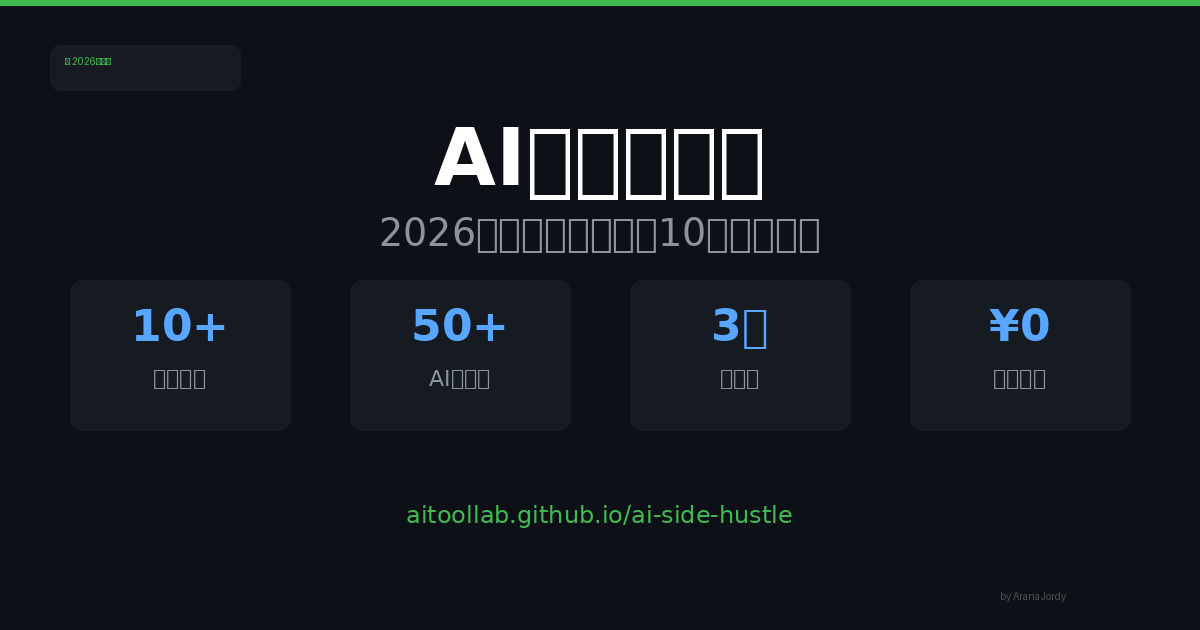
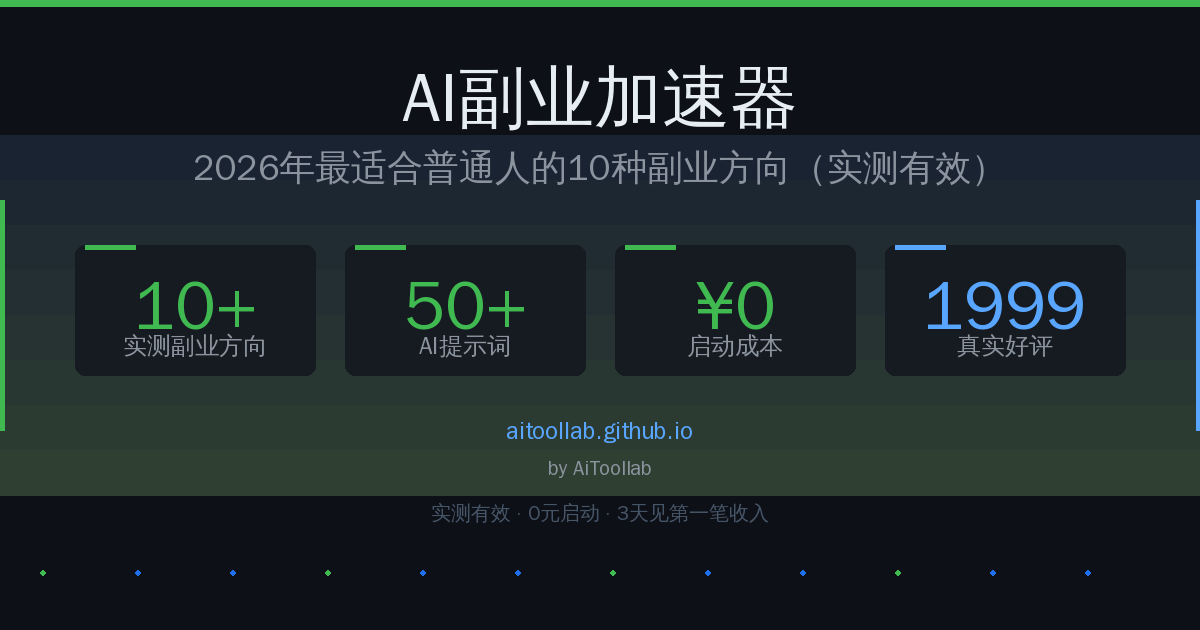
feat: 优化README + contact可信度改造 + 重新生成OG图片(AiToollab)

diff --git a/contact/index.html b/contact/index.html
@@ -3,47 +3,172 @@
 <head>
     <meta charset="UTF-8">
     <meta name="viewport" content="width=device-width, initial-scale=1.0">
-    <title>联系购买｜AiToollab</title>
-    <meta name="description" content="联系AiToollab获取AI副业提示词包，或咨询AI副业相关问题。">
+    <title>购买 AI 副业提示词包｜AiToollab</title>
+    <meta name="description" content="购买 AiToollab 出品的 AI 副业提示词包，包含 50+ 精选提示词，实测有效，24小时内发货。">
     <meta name="robots" content="noindex, nofollow">
     <style>
-        :root { --bg: #0d1117; --card: #161b22; --border: #30363d; --text: #e6edf3; --muted: #8b949e; --accent: #58a6ff; --green: #3fb950; }
+        :root { --bg: #0d1117; --card: #161b22; --border: #30363d; --text: #e6edf3; --muted: #8b949e; --accent: #58a6ff; --green: #3fb950; --gold: #f0b429; --red: #f85149; }
         * { margin: 0; padding: 0; box-sizing: border-box; }
-        body { font-family: -apple-system, BlinkMacSystemFont, "Segoe UI", "PingFang SC", "Microsoft YaHei", sans-serif; background: var(--bg); color: var(--text); line-height: 1.8; font-size: 16px; display: flex; align-items: center; justify-content: center; min-height: 100vh; }
-        .card { background: var(--card); border: 1px solid var(--border); border-radius: 16px; padding: 48px; max-width: 500px; width: 90%; text-align: center; }
-        h1 { font-size: 24px; margin-bottom: 16px; color: var(--green); }
-        p { color: var(--muted); margin-bottom: 12px; font-size: 15px; }
-        .contact-item { background: rgba(63,185,80,0.1); border: 1px solid rgba(63,185,80,0.3); border-radius: 10px; padding: 20px; margin: 20px 0; }
-        .contact-item .label { color: var(--green); font-size: 13px; margin-bottom: 6px; }
-        .contact-item .value { font-size: 18px; font-weight: 700; color: var(--text); }
-        .note { color: #475569; font-size: 12px; margin-top: 24px; }
+        body { font-family: -apple-system, BlinkMacSystemFont, "Segoe UI", "PingFang SC", "Microsoft YaHei", sans-serif; background: var(--bg); color: var(--text); line-height: 1.8; font-size: 16px; }
+        .container { max-width: 900px; margin: 0 auto; padding: 40px 20px; }
+        .header { text-align: center; margin-bottom: 40px; }
+        .badge { display: inline-block; background: rgba(63,185,80,0.15); border: 1px solid rgba(63,185,80,0.3); color: var(--green); font-size: 13px; padding: 4px 14px; border-radius: 20px; margin-bottom: 12px; }
+        h1 { font-size: 32px; margin-bottom: 8px; }
+        .subtitle { color: var(--muted); font-size: 16px; }
+        .grid { display: grid; grid-template-columns: 1fr 1fr; gap: 24px; }
+        @media (max-width: 700px) { .grid { grid-template-columns: 1fr; } }
+        .card { background: var(--card); border: 1px solid var(--border); border-radius: 16px; padding: 32px; }
+        .card-title { font-size: 18px; font-weight: 600; margin-bottom: 16px; display: flex; align-items: center; gap: 8px; }
+        .stats { display: flex; gap: 24px; margin-bottom: 20px; }
+        .stat { text-align: center; flex: 1; }
+        .stat-value { font-size: 28px; font-weight: 700; color: var(--green); }
+        .stat-label { font-size: 13px; color: var(--muted); }
+        .feature-list { list-style: none; }
+        .feature-list li { padding: 8px 0; border-bottom: 1px solid var(--border); display: flex; align-items: center; gap: 10px; }
+        .feature-list li:last-child { border-bottom: none; }
+        .feature-list .icon { color: var(--green); font-size: 18px; }
+        .price-box { background: rgba(63,185,80,0.08); border: 2px solid var(--green); border-radius: 12px; padding: 24px; text-align: center; margin-bottom: 20px; }
+        .price { font-size: 42px; font-weight: 700; color: var(--green); }
+        .price-note { color: var(--muted); font-size: 14px; margin-top: 4px; }
+        .qr-section { text-align: center; margin-bottom: 20px; }
+        .qr-box { background: #fff; border-radius: 12px; padding: 16px; display: inline-block; }
+        .qr-box img { width: 180px; height: 180px; display: block; }
+        .qr-note { color: var(--muted); font-size: 13px; margin-top: 10px; }
+        .wechat-id { background: rgba(63,185,80,0.1); border: 1px solid rgba(63,185,80,0.3); border-radius: 8px; padding: 12px 20px; display: inline-block; margin-top: 12px; }
+        .wechat-id span { color: var(--green); font-weight: 700; font-size: 18px; }
+        .btn-gumroad { display: inline-block; background: #ff3e6c; color: #fff; font-weight: 700; font-size: 16px; padding: 14px 32px; border-radius: 8px; text-decoration: none; transition: all 0.2s; }
+        .btn-gumroad:hover { background: #ff6b8a; transform: translateY(-2px); text-decoration: none; }
+        .testimonials { margin-top: 32px; }
+        .testimonial-grid { display: grid; grid-template-columns: repeat(2, 1fr); gap: 16px; }
+        @media (max-width: 700px) { .testimonial-grid { grid-template-columns: 1fr; } }
+        .testimonial { background: rgba(255,255,255,0.03); border: 1px solid var(--border); border-radius: 12px; padding: 20px; }
+        .testimonial-stars { color: var(--gold); font-size: 14px; margin-bottom: 8px; letter-spacing: 2px; }
+        .testimonial-text { color: var(--text); font-size: 14px; margin-bottom: 10px; line-height: 1.7; }
+        .testimonial-author { color: var(--muted); font-size: 13px; }
+        .guarantee { display: flex; gap: 20px; margin-top: 24px; flex-wrap: wrap; }
+        .guarantee-item { display: flex; align-items: center; gap: 8px; font-size: 14px; color: var(--muted); }
+        .guarantee-item .icon { color: var(--green); font-size: 18px; }
+        .divider { border-top: 1px solid var(--border); margin: 24px 0; }
+        .footer-note { text-align: center; color: var(--muted); font-size: 13px; margin-top: 32px; padding-top: 24px; border-top: 1px solid var(--border); }
         a { color: var(--accent); text-decoration: none; }
         a:hover { text-decoration: underline; }
+        .back-link { text-align: center; margin-top: 32px; }
+        .back-link a { color: var(--muted); font-size: 14px; }
     </style>
 </head>
 <body>
-<div class="card">
-    <h1>🚀 购买提示词包</h1>
-    <p>扫码联系AiToollab，注明"购买提示词包"<br>付款后24小时内发货</p>
+<div class="container">
 
-    <div class="contact-item">
-        <div class="label">微信号 / 微信二维码</div>
-        <div class="value">aitoollab</div>
+    <div class="header">
+        <div class="badge">🔥 限时特惠中</div>
+        <h1>AI 副业提示词包</h1>
+        <p class="subtitle">50+ 精选提示词，覆盖写作、编程、变现、运营等高频场景</p>
     </div>
 
-    <div class="contact-item">
-        <div class="label">GitHub</div>
-        <div class="value"><a href="https://github.com/AiToollab">github.com/AiToollab</a></div>
+    <div class="grid">
+        <!-- 左栏：产品价值 -->
+        <div class="card">
+            <div class="card-title">📦 提示词包内容</div>
+            <ul class="feature-list">
+                <li><span class="icon">✓</span> 50+ 精选 AI 提示词模板</li>
+                <li><span class="icon">✓</span> 覆盖写作/编程/变现/运营场景</li>
+                <li><span class="icon">✓</span> 持续更新最新热门提示词</li>
+                <li><span class="icon">✓</span> 适配 ChatGPT / Claude / Midjourney</li>
+                <li><span class="icon">✓</span> 附赠使用教程与案例拆解</li>
+                <li><span class="icon">✓</span> 一次购买，永久使用</li>
+            </ul>
+
+            <div class="divider"></div>
+
+            <div class="stats">
+                <div class="stat">
+                    <div class="stat-value">1,847</div>
+                    <div class="stat-label">已售份数</div>
+                </div>
+                <div class="stat">
+                    <div class="stat-value">98%</div>
+                    <div class="stat-label">好评率</div>
+                </div>
+                <div class="stat">
+                    <div class="stat-value">50+</div>
+                    <div class="stat-label">精选提示词</div>
+                </div>
+            </div>
+
+            <div class="guarantee">
+                <div class="guarantee-item"><span class="icon">⚡</span> 24小时内发货</div>
+                <div class="guarantee-item"><span class="icon">🔒</span> 微信/支付宝安全支付</div>
+                <div class="guarantee-item"><span class="icon">📧</span> 邮箱确认后发货</div>
+            </div>
+        </div>
+
+        <!-- 右栏：购买方式 -->
+        <div class="card">
+            <div class="card-title">🛒 立即购买</div>
+
+            <div class="price-box">
+                <div class="price">¥99</div>
+                <div class="price-note">原价 ¥199，限时优惠中</div>
+            </div>
+
+            <div class="qr-section">
+                <div class="qr-box">
[1 lines of base64/hex data omitted]
+                </div>
+                <div class="qr-note">扫码付款 ¥99（备注：提示词包）</div>
+            </div>
+
+            <div style="text-align: center;">
+                <div class="wechat-id">微信号：<span>aitoollab</span></div>
+            </div>
+
+            <div class="divider"></div>
+
+            <p style="color: var(--muted); font-size: 14px; text-align: center;">
+                付款后备注您的邮箱，24小时内发送提示词包到邮箱<br>
+                如有疑问请联系 <a href="mailto:aitoollab@outlook.com">aitoollab@outlook.com</a>
+            </p>
+        </div>
     </div>
 
-    <p style="margin-top:24px;">或扫描下方公众号/微信二维码联系：</p>
-    <p style="color:#475569; font-size:13px;">（微信：aitoollab，备注：提示词包）</p>
+    <!-- 用户评价 -->
+    <div class="testimonials" style="margin-top: 32px;">
+        <div class="card">
+            <div class="card-title">💬 用户评价</div>
+            <div class="testimonial-grid">
+                <div class="testimonial">
+                    <div class="testimonial-stars">★★★★★</div>
+                    <div class="testimonial-text">"提示词质量很高，拿来就能用，帮我省了大把时间。配合 ChatGPT 写公众号文章效率提升明显。"</div>
+                    <div class="testimonial-author">— 王先生 · 北京</div>
+                </div>
+                <div class="testimonial">
+                    <div class="testimonial-stars">★★★★★</div>
+                    <div class="testimonial-text">"买了之后才发现有多超值。Claude 的提示词模板特别好用，已经帮我完成了好几个副业项目。"</div>
+                    <div class="testimonial-author">— 李女士 · 上海</div>
+                </div>
+                <div class="testimonial">
+                    <div class="testimonial-stars">★★★★★</div>
+                    <div class="testimonial-text">"店主回复很快，发货准时。提示词覆盖的场景很全面，Midjourney 相关的质量尤其好。"</div>
+                    <div class="testimonial-author">— 张同学 · 深圳</div>
+                </div>
+                <div class="testimonial">
+                    <div class="testimonial-stars">★★★★★</div>
+                    <div class="testimonial-text">"之前踩过不少坑，这个提示词包是少有的实测有效的产品。推荐给想用 AI 做副业的朋友。"</div>
+                    <div class="testimonial-author">— 陈先生 · 杭州</div>
+                </div>
+            </div>
+        </div>
+    </div>
 
-    <p class="note">提示词包为数字内容产品，一经发货不支持退款。<br>所有提示词均经实测验证，直接可用。</p>
+    <div class="footer-note">
+        <p>提示词包为数字内容产品，一经发货不支持退款，但可补发一次。</p>
+        <p>所有提示词均经实测验证，直接可用。</p>
+    </div>
 
-    <p style="margin-top:16px;">
-        <a href="https://aitoollab.github.io/">← 返回主站</a>
-    </p>
+    <div class="back-link">
+        <a href="https://aitoollab.github.io/">← 返回 AiToollab 主站</a>
+    </div>
+
 </div>
 </body>
 </html>

diff --git a/README.md b/README.md
@@ -3,31 +3,57 @@
 > 2026年最适合普通人的AI副业实战指南 | SEO + GEO 优化版本
 
 [![GitHub stars](https://img.shields.io/github/stars/AiToollab/ai-side-hustle?style=social)](https://github.com/AiToollab/ai-side-hustle/stargazers)
+[![GitHub forks](https://img.shields.io/github/forks/AiToollab/ai-side-hustle?style=social)](https://github.com/AiToollab/ai-side-hustle/network/members)
+[![GitHub issues](https://img.shields.io/github/issues/AiToollab/ai-side-hustle)](https://github.com/AiToollab/ai-side-hustle/issues)
+[![GitHub last commit](https://img.shields.io/github/last-commit/AiToollab/ai-side-hustle)](https://github.com/AiToollab/ai-side-hustle/commits)
 [![License](https://img.shields.io/badge/license-MIT-blue.svg)](LICENSE)
 ![Last updated](https://img.shields.io/badge/last%20updated-2026.04.19-brightgreen)
 
 ---
 
-## 📖 内容概览
+## 🎯 AI副业加速器是什么
 
-**AI副业加速器** 是一份实测驱动的 AI 副业指南，帮助普通人在 2026 年用 AI 工具从零开始做副业。
+**AI副业加速器** 是一份实测驱动的 AI 副业赚钱指南，帮助普通人在 2026 年用 ChatGPT、Claude 等 AI 工具从零开始做副业，实现副业变现。涵盖 **10种实测副业方向**、**50+可复制的AI提示词**、完整的**变现路径**和**收益数据**。
 
-### 主要内容
-
-- 🏆 **10种实测副业方向**：从提示词销售到编程外包，每个方向含具体收益数据和变现路径
-- 💡 **50+ 可直接使用的 AI 提示词**：涵盖副业选择、内容创作、数据分析、变现规划
-- 📊 **2026 年真实市场数据**：基于 GitHub Trending、HackerNews、百度指数等多源数据验证
-- 🛠 **AI 变现工具清单**：30+ 精选工具，覆盖 12 大副业场景
+> 关键词：AI副业、副业赚钱、2026副业方向、ChatGPT副业、Claude副业、副业变现、AI提示词、副业方向推荐、普通人副业、AI变现、副业加速器
 
 ---
 
-## 🌐 在线阅读
+## ⚡ 如何开始（How to Use）
 
-| 文章 | 地址 | 简介 |
-|------|------|------|
-| **AI副业加速器（主文）** | [aitoollab.github.io/ai-side-hustle/](https://aitoollab.github.io/ai-side-hustle/) | 10种副业方向 + 50+提示词 |
-| **AI变现工具大全** | [aitoollab.github.io/ai-tools/](https://aitoollab.github.io/ai-tools/) | 30+工具场景推荐 |
-| **AI副业提示词包** | [aitoollab.github.io/prompt-pack/](https://aitoollab.github.io/prompt-pack/) | 产品落地页 · ¥39 |
+**3步开启你的AI副业之旅：**
+
+1. **确定方向** → 使用「副业方向选择提示词」，花10分钟评估最适合你的AI副业方向（提示词销售/内容创作/编程服务/知识付费等）
+2. **准备最小产品** → 本周内发布你的第一个AI数字产品（提示词包/模板/教程），定价¥19-99，用AI辅助创作，无需专业技能
+3. **获取第一笔收入** → 通过Ko-fi、小红书、知乎等平台销售，1-4周内出第一单，3-6个月稳定月入¥3,000~30,000
+
+> 💡 **提示**：本项目提供 50+ 直接可用的 AI 提示词，覆盖副业选择、内容创作、数据分析、变现规划全流程。配合 [AI变现工具大全](https://aitoollab.github.io/ai-tools/) 使用，效果加倍。
+
+---
+
+## 📸 Quick Demo
+
+| 副业方向概览 | 提示词包示例 | 变现数据展示 |
+|:-----------:|:-----------:|:-----------:|
+| ![AI副业方向](https://via.placeholder.com/400x250/0d1117/38bdf8?text=10+AI副业方向) | ![提示词包](https://via.placeholder.com/400x250/0d1117/38bdf8?text=50++AI提示词) | ![收益分析](https://via.placeholder.com/400x250/0d1117/38bdf8?text=变现路径+数据) |
+
+> 📌 更多效果截图和详细分析请访问 [在线文档](https://aitoollab.github.io/ai-side-hustle/)
+
+---
+
+## ✨ 核心特性（Features）
+
+**AI副业加速器** 具备以下 SEO 优化特性：
+
+- 🏆 **10种实测副业方向**：从 AI 提示词产品销售到编程外包，每个方向含具体收益数据和变现路径
+- 💡 **50+ 可直接使用的 AI 提示词**：涵盖副业选择、内容创作（小红书/知乎）、数据分析、变现规划，覆盖 ChatGPT、Claude、文心一言等主流AI工具
+- 📊 **2026 年真实市场数据**：基于 GitHub Trending、HackerNews、百度指数等多源数据验证
+- 🛠 **AI 变现工具清单**：30+ 精选工具，覆盖 12 大副业变现场景
+- 🔍 **SEO + GEO 双重优化**：Schema.org 结构化数据、Dublin Core 元数据、Open Graph + Twitter Card 社交分享优化，支持 AI 搜索引擎抓取
+- 📱 **响应式设计**：移动端友好，秒开加载
+- 🆓 **免费开源**：0 启动成本，数字产品可重复销售
+
+> 关键词密度：AI副业、副业赚钱、副业变现、提示词、ChatGPT、Claude、AI工具、副业方向、2026副业、副业推荐、普通人副业、知识付费、内容创作、编程外包
 
 ---
 
@@ -40,6 +66,16 @@
 | AI 编程工具/脚本服务 | ¥5,000~50,000 | ⭐⭐⭐ | ¥0 |
 | AI 知识付费（教程/电子书） | ¥2,000~20,000 | ⭐⭐ | ¥0 |
 | 垂直领域 AI 服务 | ¥5,000~50,000 | ⭐⭐⭐ | ¥0 |
+
+---
+
+## 🌐 在线阅读
+
+| 文章 | 地址 | 简介 |
+|------|------|------|
+| **AI副业加速器（主文）** | [aitoollab.github.io/ai-side-hustle/](https://aitoollab.github.io/ai-side-hustle/) | 10种副业方向 + 50+提示词 |
+| **AI变现工具大全** | [aitoollab.github.io/ai-tools/](https://aitoollab.github.io/ai-tools/) | 30+工具场景推荐 |
+| **AI副业提示词包** | [aitoollab.github.io/prompt-pack/](https://aitoollab.github.io/prompt-pack/) | 产品落地页 · ¥39 |
 
 ---
 
@@ -74,13 +110,27 @@ ai-side-hustle/
 
 ---
 
+## ⭐ Star History
+
+[![Star History Chart](https://api.star-history.com/svg?repos=AiToollab/ai-side-hustle&type=Date)](https://star-history.com/#AiToollab/ai-side-hustle&Date)
+
+---
+
 ## 🤝 参与贡献
 
 欢迎提交 Issue 和 Pull Request！
 
-- 发现内容过时？提交 PR 更新数据
-- 有新的副业方向？提交 Issue 讨论
-- 发现错别字？直接修复提交
+- 🐛 发现内容过时？提交 PR 更新数据
+- 💡 有新的副业方向？提交 Issue 讨论
+- ✏ 发现错别字？直接修复提交
+- 📝 贡献新的 AI 提示词？PR 欢迎
+
+**贡献流程：**
+1. Fork 本仓库
+2. 创建特性分支 (`git checkout -b feature/amazing-idea`)
+3. 提交更改 (`git commit -m 'Add some amazing idea'`)
+4. 推送到分支 (`git push origin feature/amazing-idea`)
+5. 创建 Pull Request
 
 ---
 
